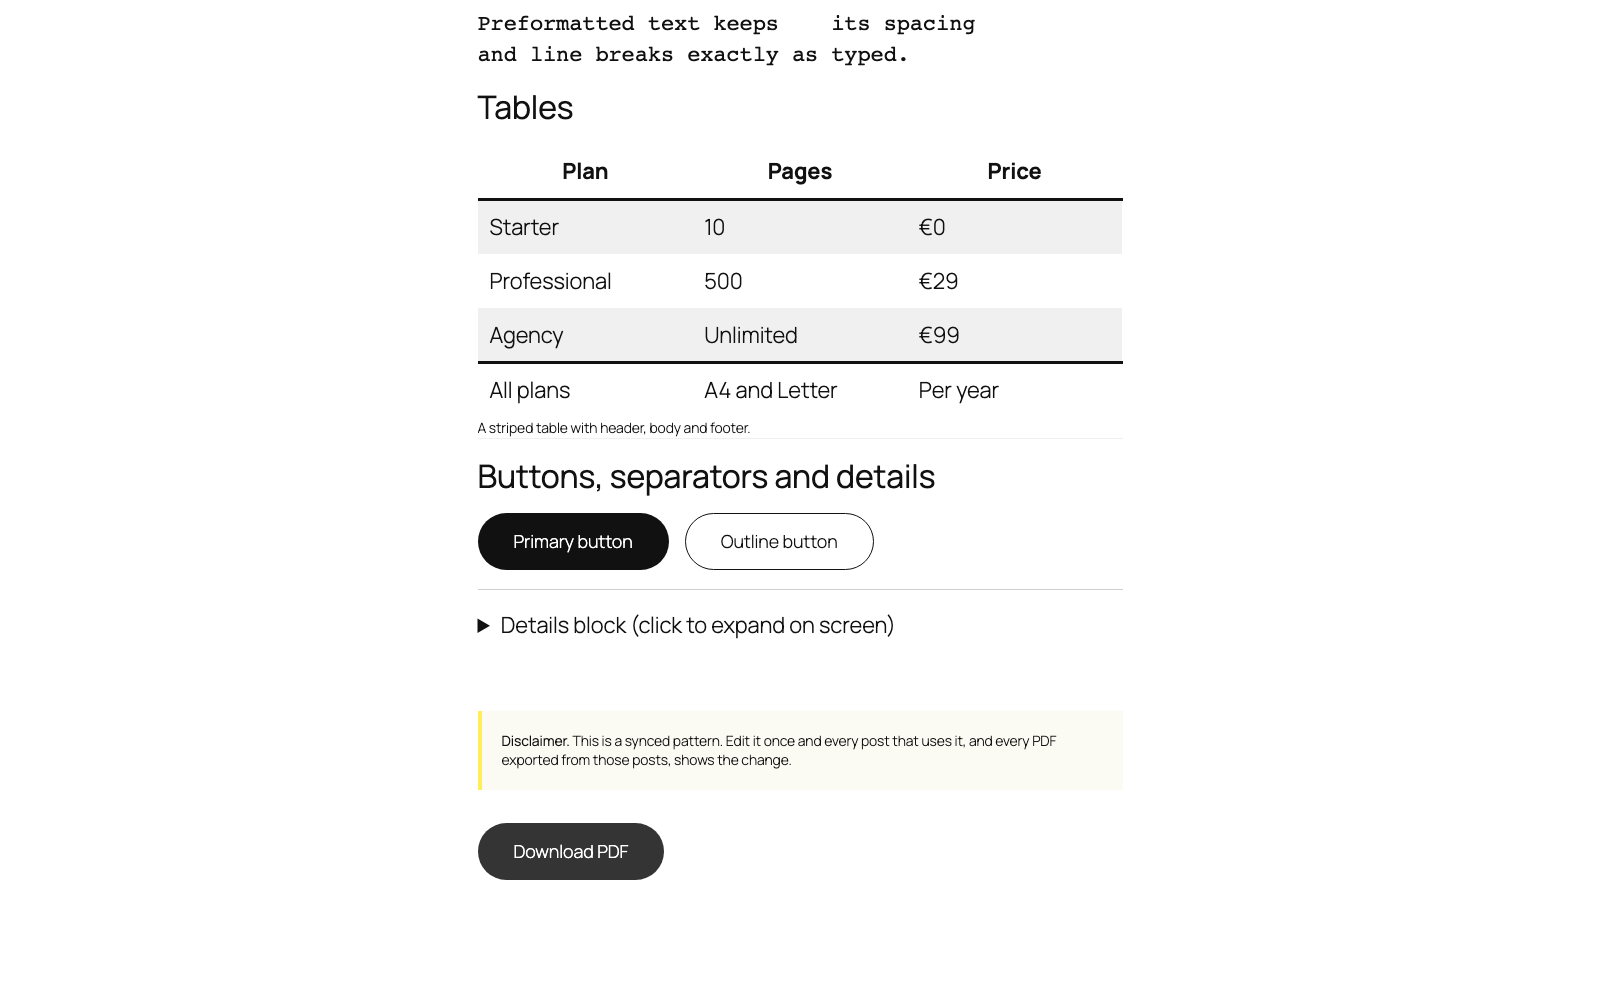
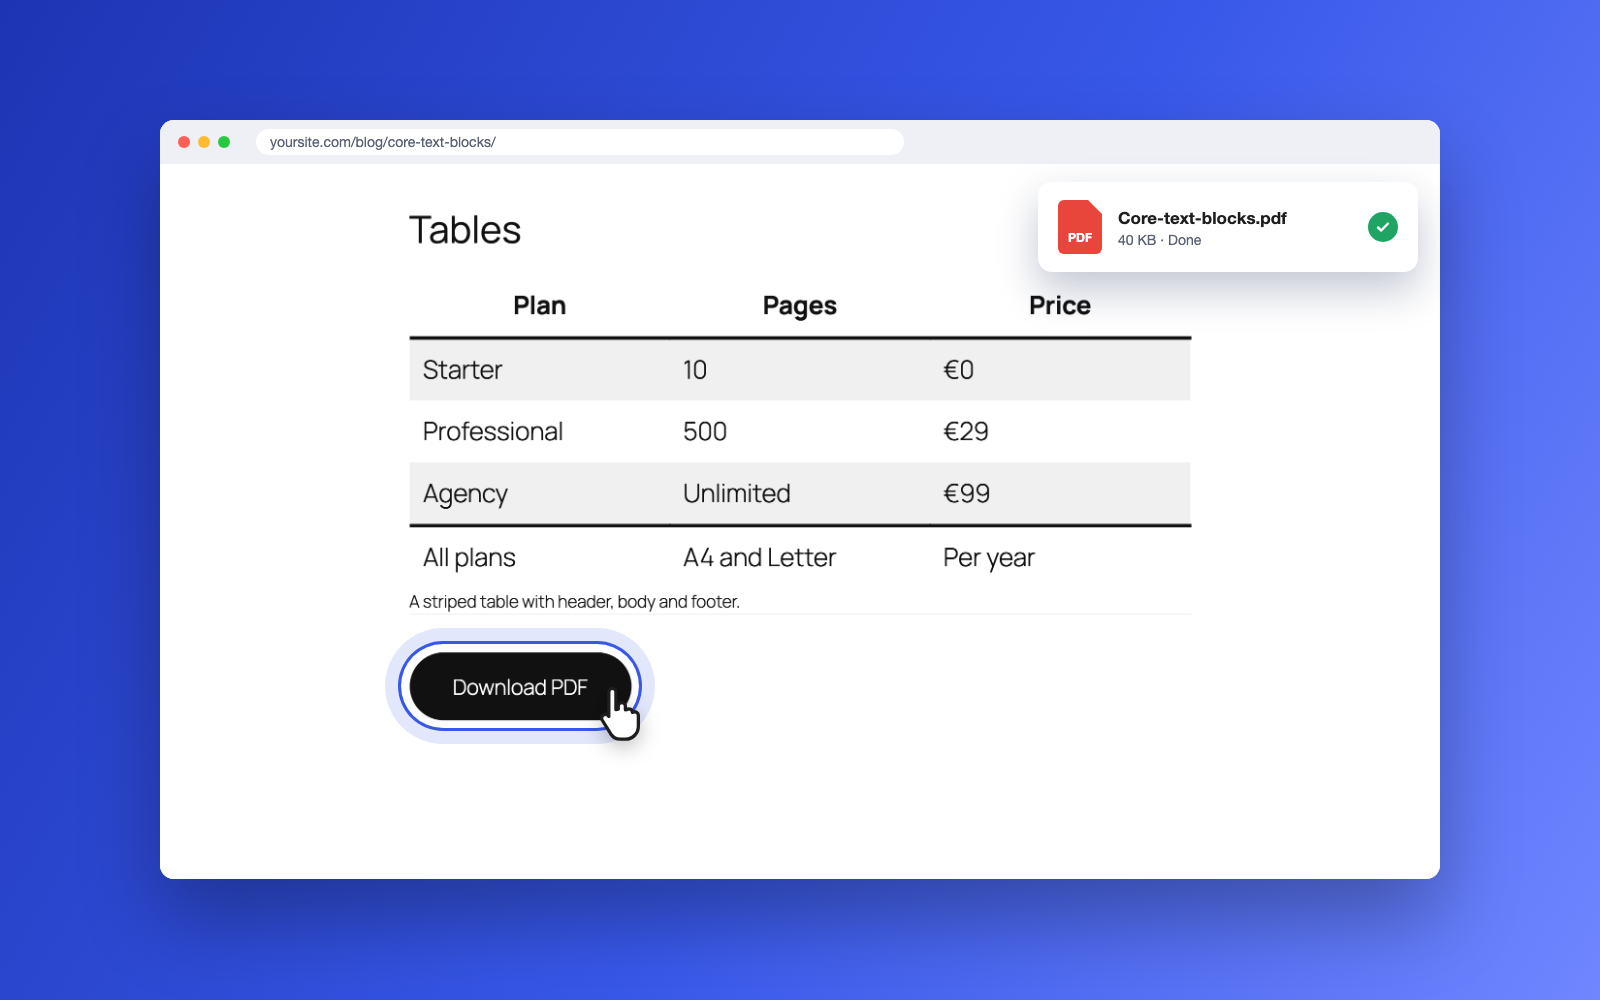
Update assets

diff --git a/bin/wporg-assets/screenshot-1.html b/bin/wporg-assets/screenshot-1.html
@@ -1,0 +1,84 @@
+<!doctype html>
+<!--
+	Screenshot 1 scene, rendered at 1600x1000 by bin/wporg-assets.mjs: a capture of the end of a demo post
+	in a browser frame, with the "Download PDF" button highlighted, a cursor clicking it and the download notice.
+	Tokens: {{IMAGE}} (capture, shown at 1280x715 CSS px), {{BX}} {{BY}} {{BW}} {{BH}} (button box in the capture),
+	{{FILENAME}}, {{SIZE}}.
+-->
+<html>
+<head>
+<meta charset="utf-8">
+<style>
+	html, body { margin: 0; }
+	body {
+		width: 1600px; height: 1000px; overflow: hidden; position: relative;
+		background: linear-gradient(120deg, #1d35b4 0%, #3858e9 55%, #6f86ff 100%);
+		font-family: -apple-system, "Helvetica Neue", Arial, sans-serif;
+	}
+	.browser {
+		position: absolute; left: 160px; top: 120px; width: 1280px; border-radius: 14px; overflow: hidden;
+		background: #fff; box-shadow: 0 40px 80px rgba(0, 0, 0, .3);
+	}
+	.bar { height: 44px; background: #eef0f6; display: flex; align-items: center; gap: 8px; padding: 0 18px; }
+	.bar i { width: 12px; height: 12px; border-radius: 50%; }
+	.bar i:nth-child(1) { background: #ff5f57; }
+	.bar i:nth-child(2) { background: #febc2e; }
+	.bar i:nth-child(3) { background: #28c840; }
+	.url {
+		margin-left: 18px; flex: 1; max-width: 620px; height: 26px; border-radius: 13px; background: #fff;
+		color: #5b6275; font-size: 14px; line-height: 26px; padding: 0 14px;
+	}
+	.shot { display: block; width: 1280px; height: 715px; }
+
+	/* Positioned in capture coordinates, inside .stage (which sits over the capture). */
+	.stage { position: absolute; left: 160px; top: 164px; width: 1280px; height: 715px; pointer-events: none; }
+	.ring {
+		position: absolute; left: calc({{BX}}px - 8px); top: calc({{BY}}px - 8px);
+		width: calc({{BW}}px + 16px); height: calc({{BH}}px + 16px); border-radius: 999px;
+		box-shadow: 0 0 0 3px #3858e9, 0 0 0 16px rgba(56, 88, 233, .14);
+	}
+	.cursor { position: absolute; left: calc({{BX}}px + {{BW}}px - 34px); top: calc({{BY}}px + {{BH}}px * .5); width: 52px; filter: drop-shadow(0 6px 10px rgba(0, 0, 0, .25)); }
+
+	.download {
+		position: absolute; right: 22px; top: 18px; width: 380px; background: #fff; border-radius: 14px;
+		box-shadow: 0 18px 40px rgba(20, 30, 80, .25); padding: 18px 20px; box-sizing: border-box;
+		display: flex; align-items: center; gap: 16px;
+	}
+	.file {
+		position: relative; flex: none; width: 44px; height: 54px; background: #e8453c; border-radius: 6px;
+		clip-path: polygon(0 0, 30px 0, 100% 14px, 100% 100%, 0 100%);
+		color: #fff; font-size: 12px; font-weight: 800; display: flex; align-items: flex-end; justify-content: center;
+		padding-bottom: 9px; box-sizing: border-box;
+	}
+	.meta { flex: 1; min-width: 0; }
+	.name { font-size: 17px; font-weight: 600; color: #1e1e1e; white-space: nowrap; overflow: hidden; text-overflow: ellipsis; }
+	.size { font-size: 14px; color: #5b6275; margin-top: 4px; }
+	.check {
+		flex: none; width: 30px; height: 30px; border-radius: 50%; background: #1fa463; color: #fff;
+		display: flex; align-items: center; justify-content: center;
+	}
+</style>
+</head>
+<body>
+	<div class="browser">
+		<div class="bar"><i></i><i></i><i></i><div class="url">yoursite.com/blog/core-text-blocks/</div></div>
+		<img class="shot" src="{{IMAGE}}">
+	</div>
+	<div class="stage">
+		<div class="ring"></div>
+		<svg class="cursor" viewBox="0 0 22 25" fill="#fff" stroke="#1e1e1e" stroke-width="1.4" stroke-linejoin="round" stroke-linecap="round">
+			<path d="M5 2.5a1.5 1.5 0 0 1 3 0V10l1-.2V8.5a1.5 1.5 0 0 1 3 0v1.6l.6-.1a1.5 1.5 0 0 1 2.4 1.2l.3-.1a1.5 1.5 0 0 1 2.2 1.3v4.6c0 2.9-2.3 5.5-5.4 5.5H9.8c-1.6 0-3-.8-3.9-2.1L2.3 14.6a1.6 1.6 0 0 1 2.3-2.2L5 12.8z"/>
+		</svg>
+		<div class="download">
+			<div class="file">PDF</div>
+			<div class="meta">
+				<div class="name">{{FILENAME}}</div>
+				<div class="size">{{SIZE}} · Done</div>
+			</div>
+			<div class="check">
+				<svg width="16" height="16" viewBox="0 0 16 16" fill="none" stroke="#fff" stroke-width="2.4" stroke-linecap="round" stroke-linejoin="round"><path d="M3 8.5l3.2 3L13 4.5"/></svg>
+			</div>
+		</div>
+	</div>
+</body>
+</html>

diff --git a/CLAUDE.md b/CLAUDE.md
@@ -20,7 +20,7 @@ Content PDF is a WordPress plugin (PHP 8.1+, namespace `Dinamiko\ContentPdf`) bu
 - `npm run playground`: starts WordPress Playground (`@wp-playground/cli`, no Docker) on `http://127.0.0.1:9400`, mounting this working copy as the plugin and running `bin/playground/blueprint.json` (activates the plugin, runs the demo seeder through the `wp-cli` step). Needs `composer install` and `npm run build`. The wordpress.org Live Preview uses `.wordpress-org/blueprints/blueprint.json` (installs from wordpress.org, same seeder; goes to SVN `assets/blueprints/blueprint.json`). Keep both blueprints in sync, and keep `bin/demo-content/` in the release zip because the preview seeds from the installed plugin.
 - `npm run copy-vendor`: copies the dompdf.js browser build from `node_modules` into `modules/Export/assets/vendor/dompdf/` (committed). `dompdf.js` is pinned in `package.json` because the export JS works around bugs in that version.
 - `npm run dist`: builds the JS, then runs `bin/dist.mjs` to create the wordpress.org release zip `dist/content-pdf.zip`, with a single `content-pdf/` folder inside. Only tracked files on the `INCLUDE` allowlist in `bin/dist.mjs` are copied: the main plugin file, `readme.txt`, `modules/` and `bin/demo-content/`. Production `vendor/` comes from `composer install --no-dev` in the staging folder, so the repo's dev `vendor/` is left alone. `composer.json` stays in the zip (Plugin Check warns about `vendor/` without it), and `composer.lock` is removed. `docs/` is never shipped. The command fails if the plugin header `Version:` doesn't match the readme's `Stable tag:`. It needs `composer` and `zip` on the host.
-- `npm run wporg:assets` / `npm run wporg:screenshots`: generate the wordpress.org plugin page assets in `.wordpress-org/` (goes to SVN `assets/`, never into the zip) with `bin/wporg-assets.mjs`. `wporg:assets` renders `icon.svg` to `icon-128x128.png`/`icon-256x256.png` and `bin/wporg-assets/banner.html` to `banner-1544x500.png`/`banner-772x250.png` (both are placeholders to replace with the final design). `wporg:screenshots` captures `screenshot-1..6.png` from the dev site, matching `== Screenshots ==` in `readme.txt`. It reseeds the demo (classic for #6, block again at the end) and needs wp-env and `pdftoppm` (poppler) on the host.
+- `npm run wporg:assets` / `npm run wporg:screenshots`: generate the wordpress.org plugin page assets in `.wordpress-org/` (goes to SVN `assets/`, never into the zip) with `bin/wporg-assets.mjs`. `wporg:assets` renders `icon.svg` to `icon-128x128.png`/`icon-256x256.png` and `bin/wporg-assets/banner.html` to `banner-1544x500.png`/`banner-772x250.png` (both are placeholders to replace with the final design). `wporg:screenshots` captures `screenshot-1..6.png` from the dev site, matching `== Screenshots ==` in `readme.txt`. Screenshot 1 is a staged scene (`bin/wporg-assets/screenshot-1.html`: a post capture in a browser frame, with the button highlighted and the download notice); `node bin/wporg-assets.mjs --screenshot-1` renders only that one, without reseeding. It reseeds the demo (classic for #6, block again at the end) and needs wp-env and `pdftoppm` (poppler) on the host.
 - `npm run lint:php` (or `composer lint:php`): runs PHP_CodeSniffer with WordPress Coding Standards and PHPCompatibilityWP (PHP 8.1+) on the host. `npm run lint:php:fix` auto-fixes with phpcbf. Config is in `phpcs.xml.dist`.
 
 ## Architecture
